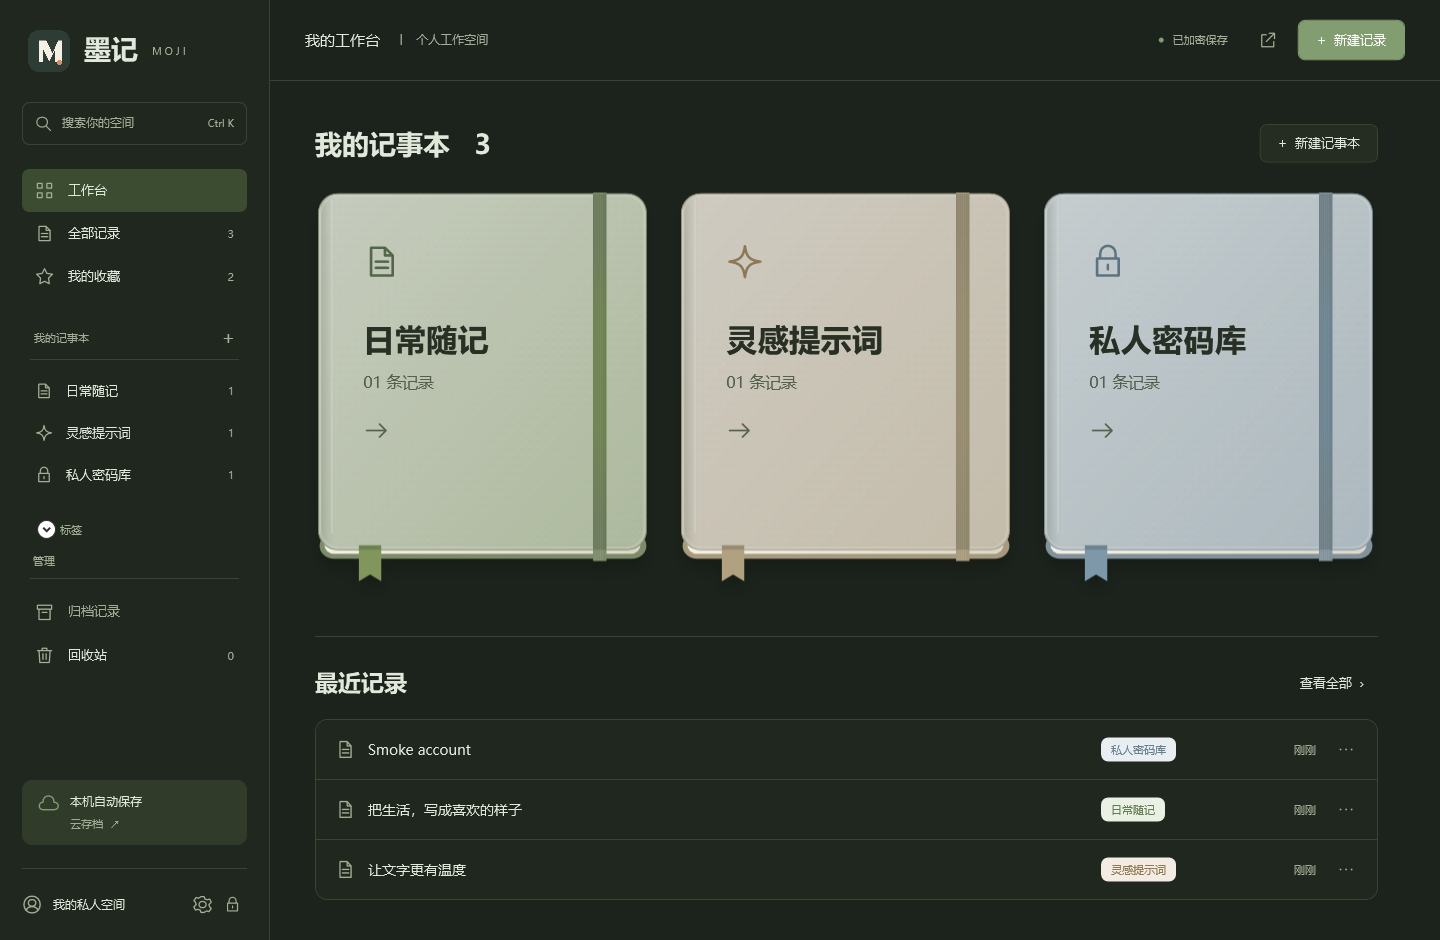
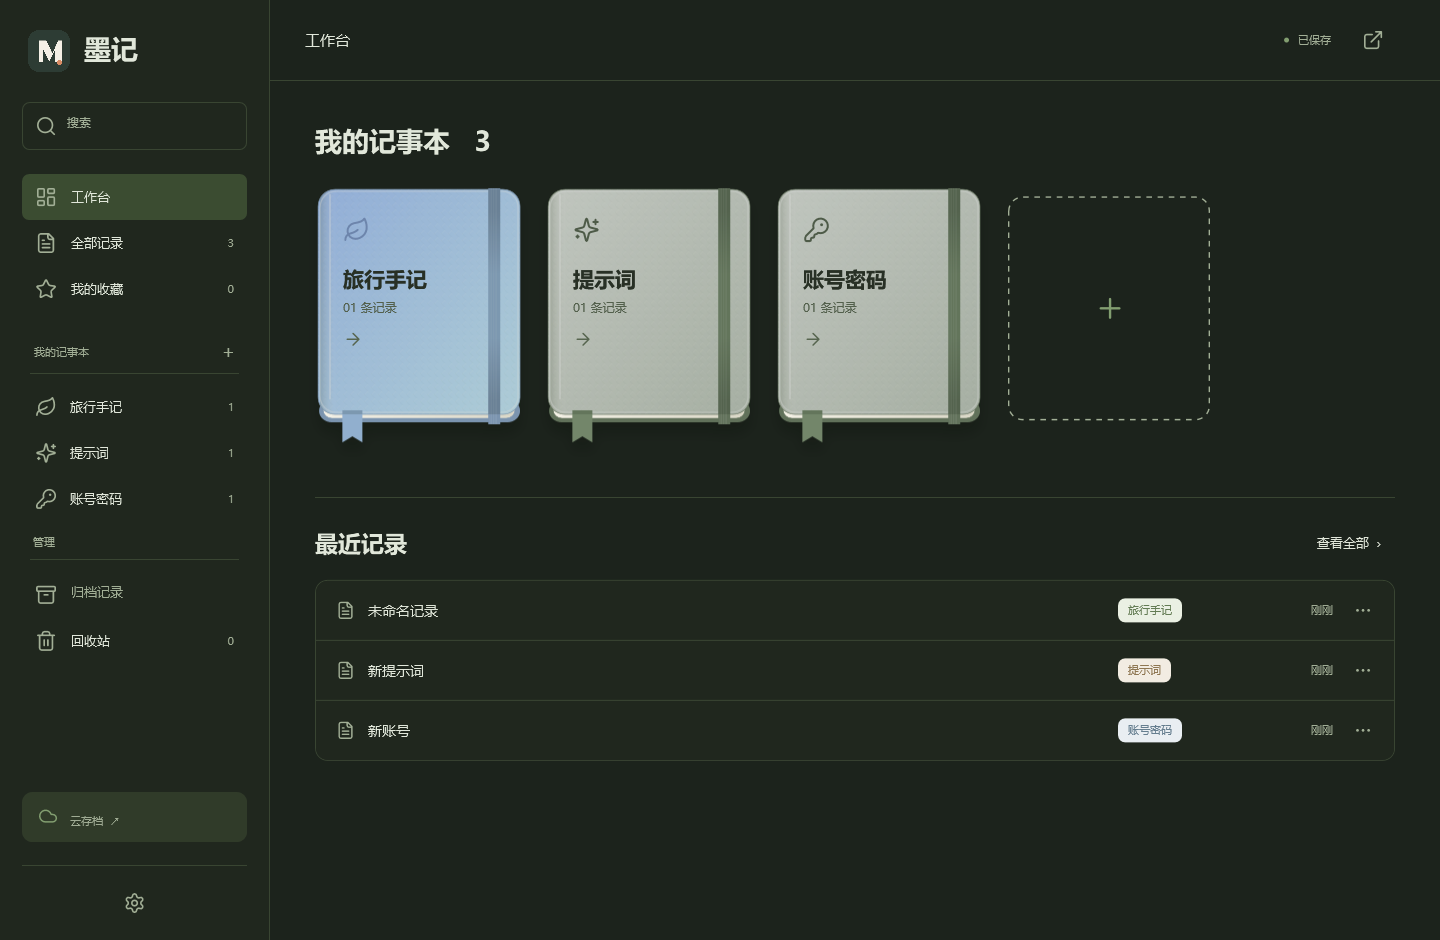
Preserve final native screenshots and verified Windows and Android release evidence

diff --git a/docs/PROGRESS.md b/docs/PROGRESS.md
@@ -2,9 +2,17 @@
 
 当前版本：Windows 1.2.0 / Android 1.1.0。实现与使用方法见 [README](../README.md)。
 
-本轮已完成两端的单一所见即所得编辑、显式变量、交互待办与表格、密码只读/编辑、快捷键自定义、矢量图标，以及移除演示、标签、本地主密码/加密和自动锁定。云端继续为全局手动存档。
+本轮已完成两端的单一所见即所得编辑、显式变量、交互待办与表格、密码只读/编辑、快捷键自定义、矢量图标，以及移除演示、标签、本地主密码/加密和自动锁定。云端继续为全局手动存档。记事本可选 16 种纯色、12 种可调渐变和 36 个图标。
 
-本地核心测试与原生项目编译后，使用 GitHub Actions 运行 Windows WPF 实际控件检查和 Android 原生仪器测试。发布步骤必须在测试通过后进行；每个版本附带实际原生测试报告。
+首次打开没有任何本子或记录。工作台只创建记事本，进入具体本子后才显示「新建记录」。全部记录、收藏、归档和回收站不提供新建入口；自定义快捷键也遵循此层级。升级保留已有数据。
+
+2026-11-15，运行代码提交 `14105cc04fe354d4d0ca66687c90559b871ba617` 完成以下验证：
+
+- [Windows 验证](https://github.com/piayboy894/moji-notes/actions/runs/43682474238)：31 项核心测试、12 项原生 WPF 控件检查通过。包含空工作台、本子归属、聚合页面禁止新建、编辑落盘与重开、待办/表格/变量、密码编辑、收藏菜单、旧数据迁移和关闭保存。
+- [Android 验证](https://github.com/piayboy894/moji-notes/actions/runs/43682472666)：38 项单元测试、8 项原生仪器测试通过。覆盖上述层级、渐变和图标持久化、快捷键、连续物理键盘输入、格式、表格、变量、密码编辑及多尺寸旋转。
+- Android 正式签名 APK 的 3 项安装检查通过：空白新装后创建本子与编辑、覆盖重装保留数据；从已发布的 1.0.0 同签名覆盖升级并迁移旧数据；迁移后重启直接进入。
+
+发行包复用上述成功流水线的原始附件，不重新编译。发布前核对 Windows EXE 校验值与 Android 固定证书指纹，附件含 `BUILD-PROVENANCE.json`、SHA-256 与原生检查报告。源码及原生截图已保留。
 
 - [Windows 流水线](https://github.com/piayboy894/moji-notes/actions/workflows/release.yml)
 - [Android 流水线](https://github.com/piayboy894/moji-notes/actions/workflows/android.yml)
